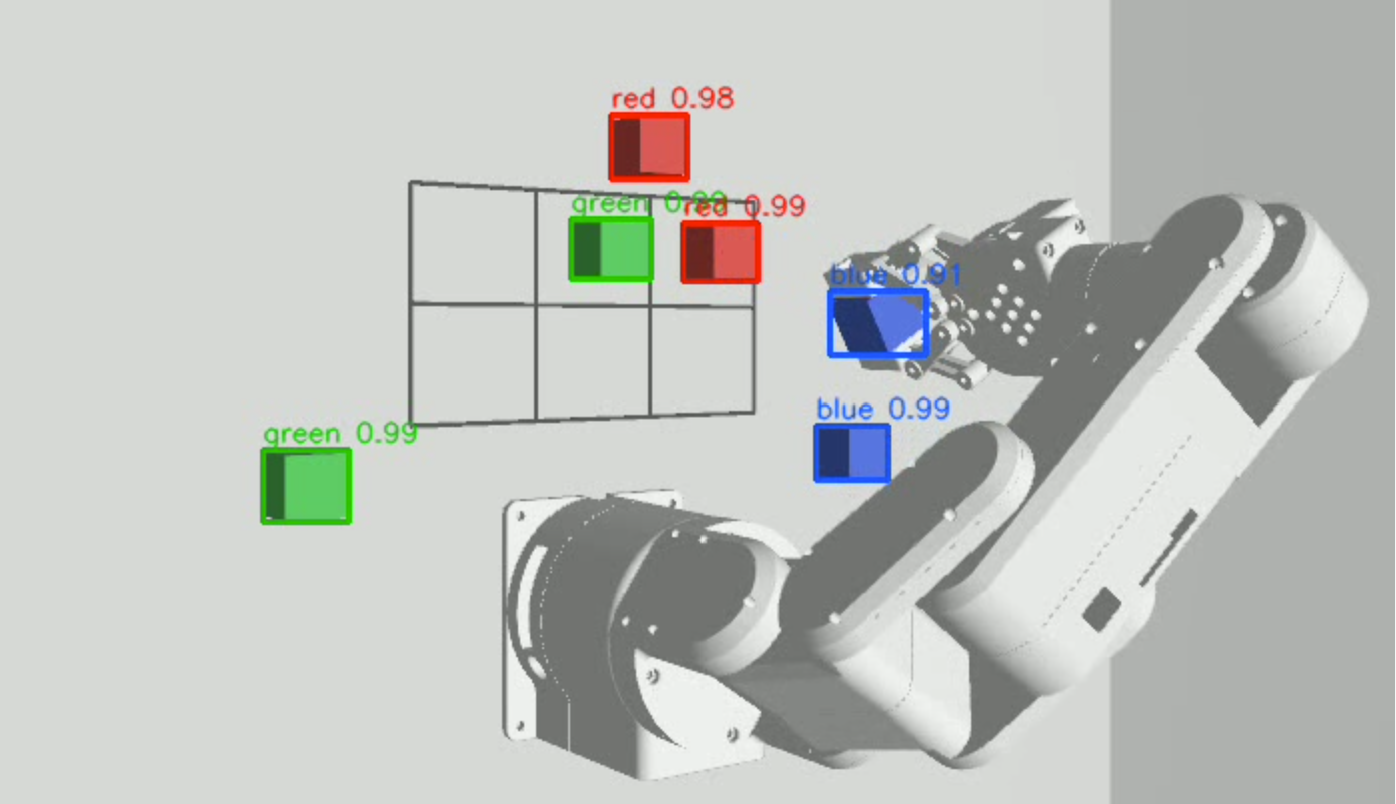
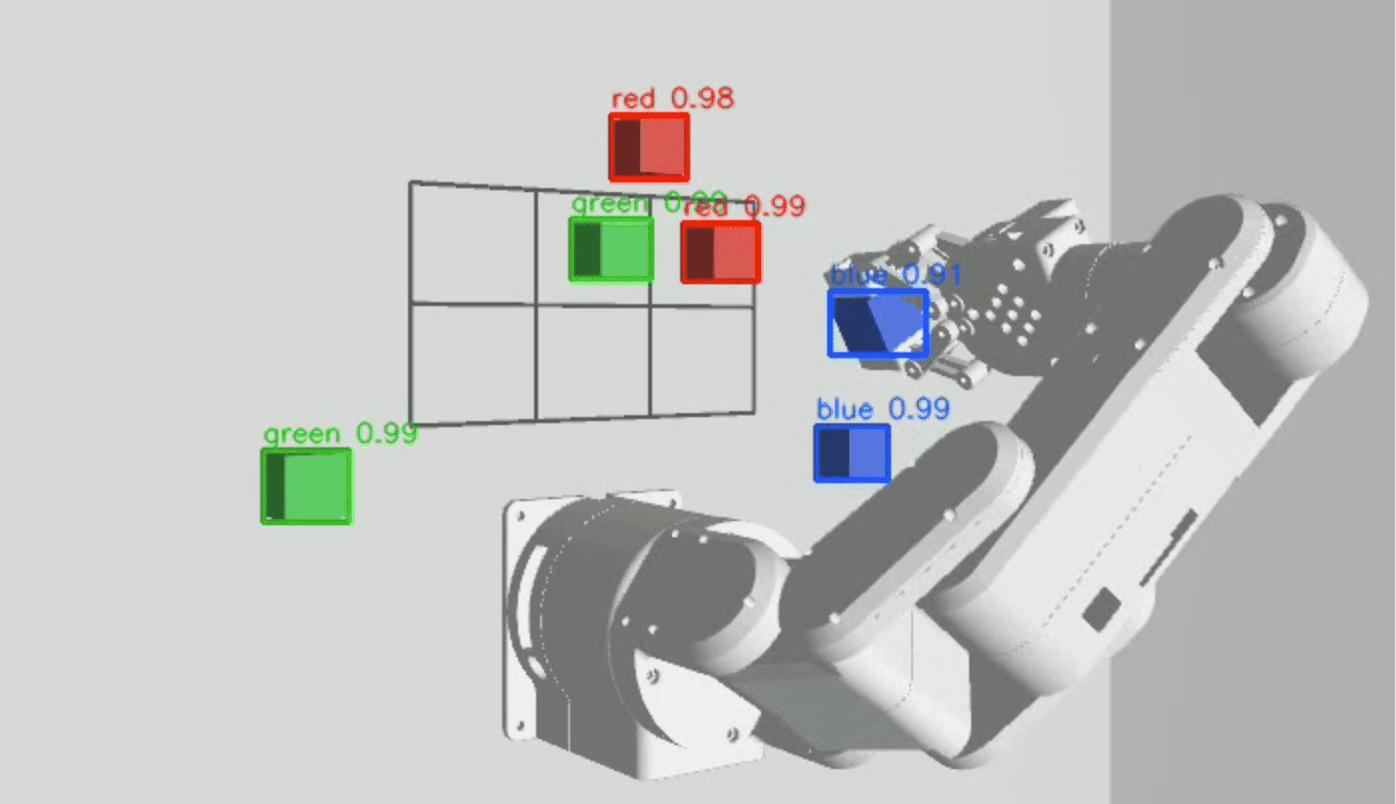
docs: 补充真机现场照片与抓取演示 GIF
- 新增现场图：桌面布置全景、机械臂与网格纸、相机安装、示教摆位与现场、现场识别屏幕、二次投放实验、识别对象
- 新增 real_pick_demo.gif：从答辩视频截取的一轮完整取放（识别 → 下降 → 夹取 → 抬升 → 搬运）
- 三份文档按阶段插图；yolo-training.md 增加识别对象与现场一节
- 压缩既有截图（终端日志 722K→195K、网格扫描 488K→239K、仿真画面与训练曲线转 8 位）

diff --git a/docs/yolo-training.md b/docs/yolo-training.md
@@ -13,7 +13,16 @@
 解决办法是自己拍现场数据集做迁移训练，并特意把地板、桌面、线缆这类背景当负样本拍进去。
 训练后置信度稳定在 0.9 以上，误检消失。
 
-## 二、训练设置
+## 二、识别对象与现场
+
+识别对象是红、绿、蓝方块各 2 个，共 6 个目标，摆在 3×2 网格纸的格心上；
+USB 相机架在网格侧上方，机械臂回零姿态（大臂竖直、小臂水平向前）时不遮挡网格。
+
+| 现场识别对象与工作环境 | USB 相机（贴在 iPad 背面当支架） |
+|---|---|
+| ![识别对象](images/real_objects.jpg) | ![相机](images/real_camera_mount.jpg) |
+
+## 三、训练设置
 
 | 项 | 取值 |
 |---|---|
@@ -32,7 +41,7 @@
 
 损失下降后趋稳，`metrics/mAP50(B)` 与 `metrics/mAP50-95(B)` 在后半段保持在高位。
 
-## 三、独立测试结果
+## 四、独立测试结果
 
 | 指标 | 数值 |
 |---|---|
@@ -49,7 +58,7 @@
 三色对角线均在 0.96 以上；`background` 列的漏检主要出现在远处、强反光和严重遮挡的框上，
 现场通过"只在回零姿态下取 5 帧投票"规避（见 `task_manager.py` 的 `s_scan`）。
 
-## 四、迁移到 Jetson
+## 五、迁移到 Jetson
 
 ### 环境
 
@@ -87,7 +96,7 @@ cd ~/Desktop/yingjiehua
 
 TensorRT 引擎转换成功但整体提速不明显（模型只有 3 M 参数，本来就是 21–22 ms/帧），因此现场保留 CUDA FP16。
 
-## 五、ROS 2 检测接口
+## 六、ROS 2 检测接口
 
 ```
 USB 相机 ──/camera/image_raw──▶ yolo_detector ──/detections──▶ task_manager
@@ -112,7 +121,7 @@ publisher.publish(out)
 
 因为输出消息类型、话题名和类别名都与仿真完全相同，**任务节点、抓取服务器和状态机一行没改**。
 
-## 六、真机识别结果
+## 七、真机识别结果
 
 ![真机检测画面](images/real_yolo_detect.jpg)
 
@@ -133,5 +142,9 @@ blue 0.9054   green 0.9045  green 0.9011
 
 截图与 JSON 使用**相同时间戳**同时保存，JSON 记录 `fps`、`inference_ms`、`class_name`、`confidence`、`bbox`、`center`，
 可以逐项复核画面中的每个目标。
+
+现场屏幕上的落格结果（`GRID OK`，6 个格位逐行给出类别与 `5/5 帧` 票数）：
+
+![现场识别画面](images/real_rqt_grid.jpg)
 
 **结论**：真实画面连续稳定识别 6 个三色方块，并持续向任务节点输出可用的待选目标列表。

diff --git a/README.md b/README.md
@@ -8,6 +8,10 @@
 |---|---|
 | ![仿真检测](docs/images/sim_detect_gazebo.png) | ![真机检测](docs/images/real_yolo_detect.jpg) |
 
+**真机一轮取放**（识别 → 下降 → 夹取 → 抬升 → 搬到分类区）：
+
+![真机抓取演示](docs/images/real_pick_demo.gif)
+
 ---
 
 ## 一、实验目标
@@ -22,6 +26,10 @@
 | 蓝色 | 网格**右侧**空桌面（机器人右手边，−y） |
 
 桌面上**没有任何盒子**：只有一张打印的 3×2 网格纸，三个分类区就是网格外的空桌面。
+
+| 真机现场：mechArm 270 + 网格纸 + 三色方块 | 现场全景：USB 相机架在网格侧上方 |
+|---|---|
+| ![真机场景](docs/images/real_arm_grid.jpg) | ![现场全景](docs/images/real_scene_overview.jpg) |
 
 ## 二、四阶段路线与分工
 
@@ -88,6 +96,10 @@ w = H @ [u, v, 1];  w /= w[2];  cell = nearest(cells, w, tol=0.03)
 | 真机扫描画面（黄圈 = 定位码，青十字 = 反算格心） | 运行日志：4 码全中，程序自估相机位姿 |
 |---|---|
 | ![真机网格扫描](docs/images/real_grid_scan.png) | ![运行日志](docs/images/real_runtime_log.png) |
+
+现场屏幕：`GRID OK`，6 个格位的类别与票数（`5/5 帧`）逐行刷新，机械臂停在回零姿态不挡网格。
+
+![现场识别画面](docs/images/real_rqt_grid.jpg)
 
 ### 2. 多帧投票与 1→6 循环扫描（`task_manager.py`）
 
@@ -196,6 +208,10 @@ ros2 launch mecharm_sort sort_real.launch.py host:=10.42.0.89
 | Jetson 实时性能 | 1280×720 @ 15 fps，单帧推理 22.4 ms（CUDA FP16） |
 
 ### 真机抓取
+
+| 示教：变软后手摆到位，回车记录六关节角 | 特殊实验：完成 1–5 后在 1 号格补投红块 |
+|---|---|
+| ![示教](docs/images/real_teach_pose.jpg) | ![二次投放](docs/images/real_special_refill.jpg) |
 
 - 示教 9 个点（6 个取物点 + 左 / 前 / 右各 1 个空中放置点），记录后自动低速回放验证，超限当场重教。
 - 完整跑通「扫描 → 落格 → 选目标 → 抓取 → 分类放置 → 回零 → 再扫描」闭环，抓取定位、关节运动、夹爪动作、分类放置逐项验证。
